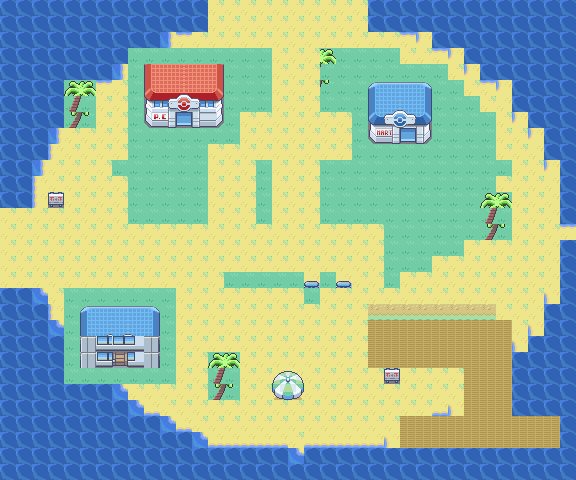
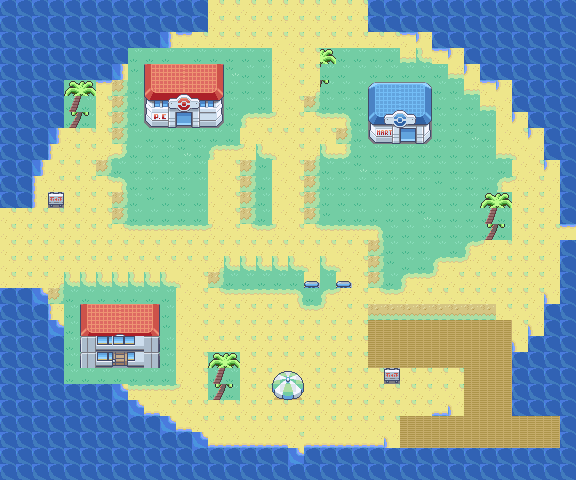
Polish Orange Islands terrain transitions, paving and residential facades

diff --git a/docs/orange-islands/validate_maps.py b/docs/orange-islands/validate_maps.py
@@ -46,6 +46,7 @@ for suffix, (start, goals, surf) in checks.items():
     assert len(b) == 2*w*h, name+' has wrong block data length'
     blocks = struct.unpack('<'+'H'*(len(b)//2), b)
     assert all((v&1023)<len(attrs) for v in blocks), name+' has missing metatiles'
+    assert all(v&0xc00 or not 0x60<=attrs[v&1023]&511<=0x7f for v in blocks), name+': unconfigured walkable warp tile'
     def walk(x,y):
         if not (0<=x<w and 0<=y<h): return False
         v=blocks[y*w+x]

diff --git a/docs/orange-islands/README.md b/docs/orange-islands/README.md
@@ -44,6 +44,22 @@ All 25 existing Orange Islands layouts now have exterior designs. This is a regi
 
 PNG previews accompany the source maps. They render the actual existing tiles/metatiles with static animation frames.
 
+## Terrain and building polish pass
+
+Reviewed all 25 layouts. Replaced 1,832 abrupt sand/grass edge tiles with native transition and corner tiles where appropriate. Added sparse native grass texture, mixed red/blue residential roofs, and upper floors on selected homes (12 residential facades reviewed). Corrected paved street/forecourt centers and grassy curb edges. Existing buildings, stairs, encounter clearings, major paths and connected border corridors retain their roles; connection-edge tiles remain unchanged. Sea routes without grassy land did not need sand/grass changes. No new graphics, palettes, ferry scripts or interiors were added.
+
+The saved Valencia layout is polished but still uses the earlier footprint. The supplied Valencia reference screenshot remains the preferred direction for a later town-layout revision.
+
+## Remaining work
+
+- Adapt Valencia to the user's reference layout, including the distinct Ivy lab and house graphics, after obtaining the editable map/tileset files or reconstructing them.
+- Extend the tropical tileset for distinctive lab/Gym buildings, a ghost-ship wreck, showboat, resort/stadium details, and Pinkan palette variants.
+- Create building, Gym, cave and ship interiors with reciprocal door/stair warps. Current building doors are blocked exterior placeholders.
+- Add ferry arrival/return and the Kumquat–Pummelo League boat. Pummelo is not connected to the Surf network.
+- Populate routes and towns with NPCs, trainers, items, encounters and quest events, including the Surf acquisition sequence and Gym progression.
+- Add proper Orange Islands region-map names and locations; placeholder names currently have popups disabled.
+- Test the region in an emulator, including Surf entry/exit, currents, stairs, followers, connections, weather, interiors and story progression. Static reachability checks do not replace gameplay tests.
+
 ## Map previews
 
 ### Valencia
